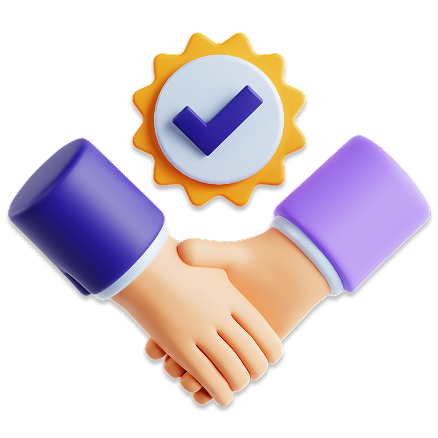
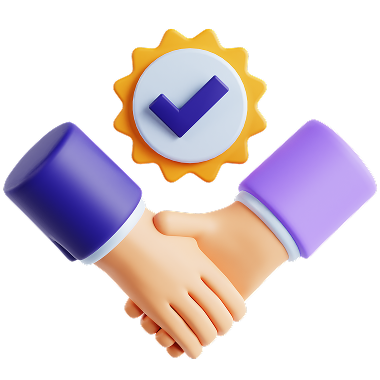
Refine section copy styles

diff --git a/css/styles.css b/css/styles.css
@@ -310,10 +310,10 @@ section {
 
 .section-description {
     margin: 10px 0 0;
-    font-size: 2rem;
-    line-height: 1.25;
+    font-size: 1.5rem;
+    line-height: 1.33;
     font-weight: 600;
-    color: #2b2d57;
+    color: #323962;
     font-family: 'Benton Modern D', Georgia, serif;
 }
 
@@ -372,7 +372,7 @@ section {
 .process-card h3 {
     margin: 0;
     font-family: 'Halyard Display', Arial, Helvetica, sans-serif;
-    font-size: 24px;
+    font-size: 1.125rem;
     line-height: 32px;
     color: var(--Colors-Dusk, #28285A);
     font-weight: 500;
@@ -395,10 +395,10 @@ section {
 
 .feature-copy .section-description {
     font-family: 'Benton Modern D', Georgia, serif;
-    font-size: 2rem;
-    line-height: 1.25;
+    font-size: 1.5rem;
+    line-height: 1.33;
     font-weight: 600;
-    color: #2b2d57;
+    color: #323962;
 }
 
 .feature {
@@ -488,7 +488,7 @@ section {
 }
 
 .feature-art img {
-    width: min(100%, 420px);
+    width: min(100%, 294px);
     aspect-ratio: 1;
     object-fit: cover;
     border-radius: 0;
@@ -559,7 +559,7 @@ section {
 }
 
 .intro-copy {
-    max-width: 640px;
+    max-width: 600px;
 }
 
 .intro-copy p + p {
@@ -567,7 +567,7 @@ section {
 }
 
 .feature-copy {
-    max-width: 640px;
+    max-width: 600px;
 }
 
 .feature-copy p + p {
@@ -609,7 +609,7 @@ section {
 }
 
 .contact .section-description {
-    font-weight: 400;
+    font-weight: 600;
 }
 
 .contact__inner {
@@ -767,6 +767,7 @@ section {
     }
 
     .hero p,
+    .section-description,
     .section-lead,
     .service-card p,
     .process-card p,
